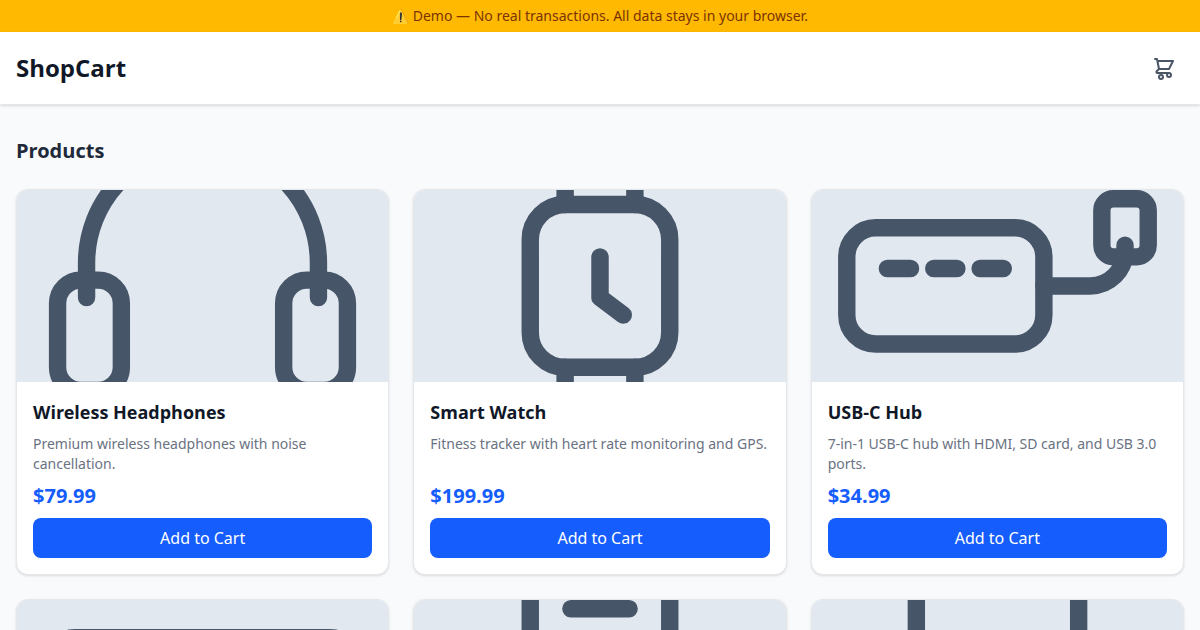
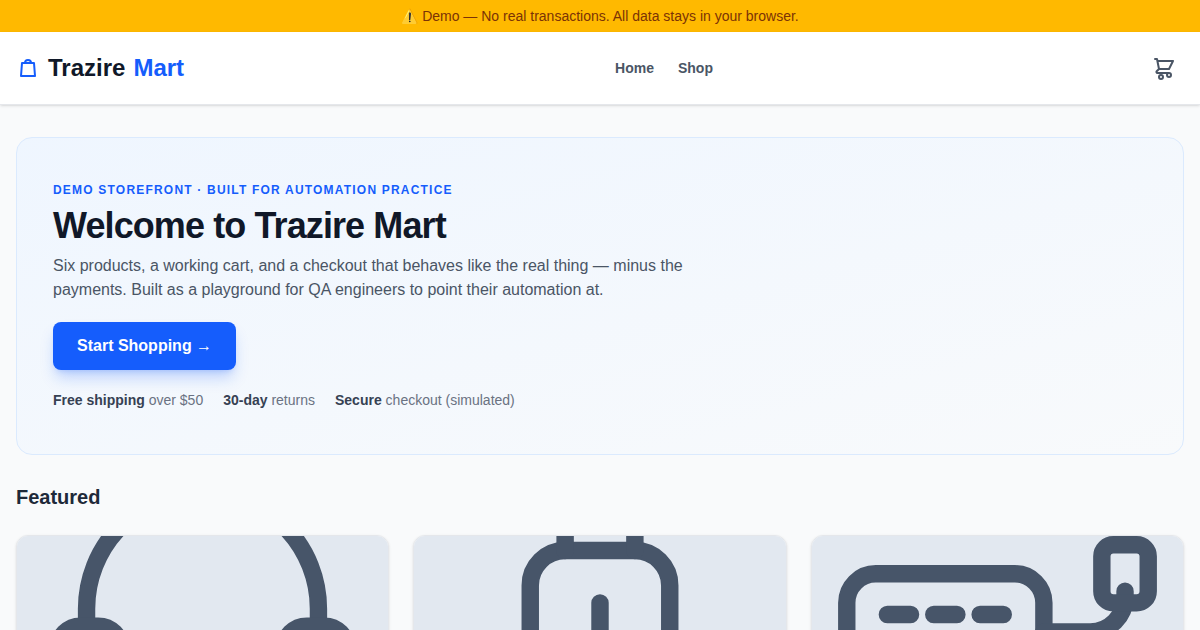
docs: refresh og metadata and image

diff --git a/index.html b/index.html
@@ -3,9 +3,9 @@
 <head>
   <meta charset="UTF-8">
   <meta http-equiv="Content-Security-Policy" content="default-src 'self'; script-src 'self'; style-src 'self' 'unsafe-inline'; img-src 'self'; font-src 'self'; connect-src 'self'; base-uri 'self'; form-action 'self'; object-src 'none'" />
-  <meta name="description" content="ShopCart — interactive e-commerce shopping cart demo built with vanilla JavaScript and Tailwind CSS." />
-  <meta property="og:title" content="ShopCart Demo" />
-  <meta property="og:description" content="Interactive e-commerce shopping cart demo — add items, checkout flow, order confirmation." />
+  <meta name="description" content="Trazire Mart — a front-end test automation playground: a small demo storefront with a cart and routed checkout, built for practising UI, E2E and accessibility testing." />
+  <meta property="og:title" content="Trazire Mart — demo storefront" />
+  <meta property="og:description" content="A small, self-contained storefront built as a practice playground for front-end test automation — catalog, cart drawer and a routed checkout, wired for E2E, a11y and visual testing." />
   <meta property="og:type" content="website" />
   <meta property="og:url" content="https://playground.trazire.com/web-playground/" />
   <meta property="og:image" content="https://playground.trazire.com/web-playground/og-image.png" />
